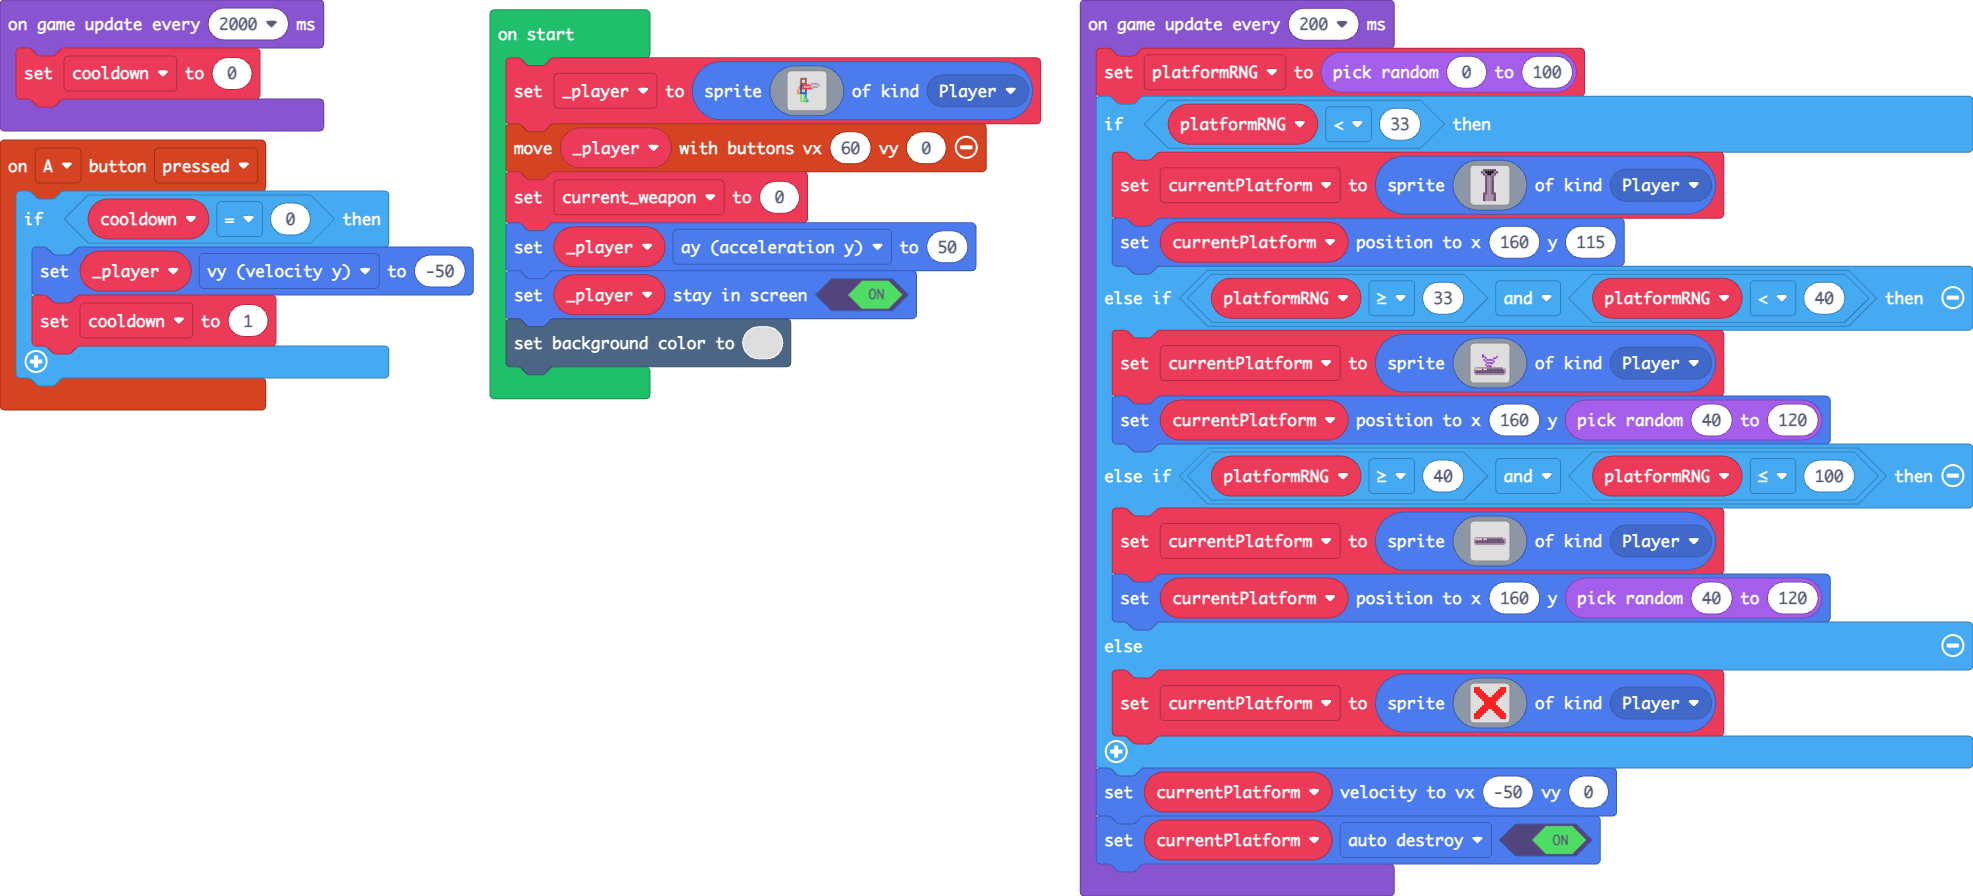
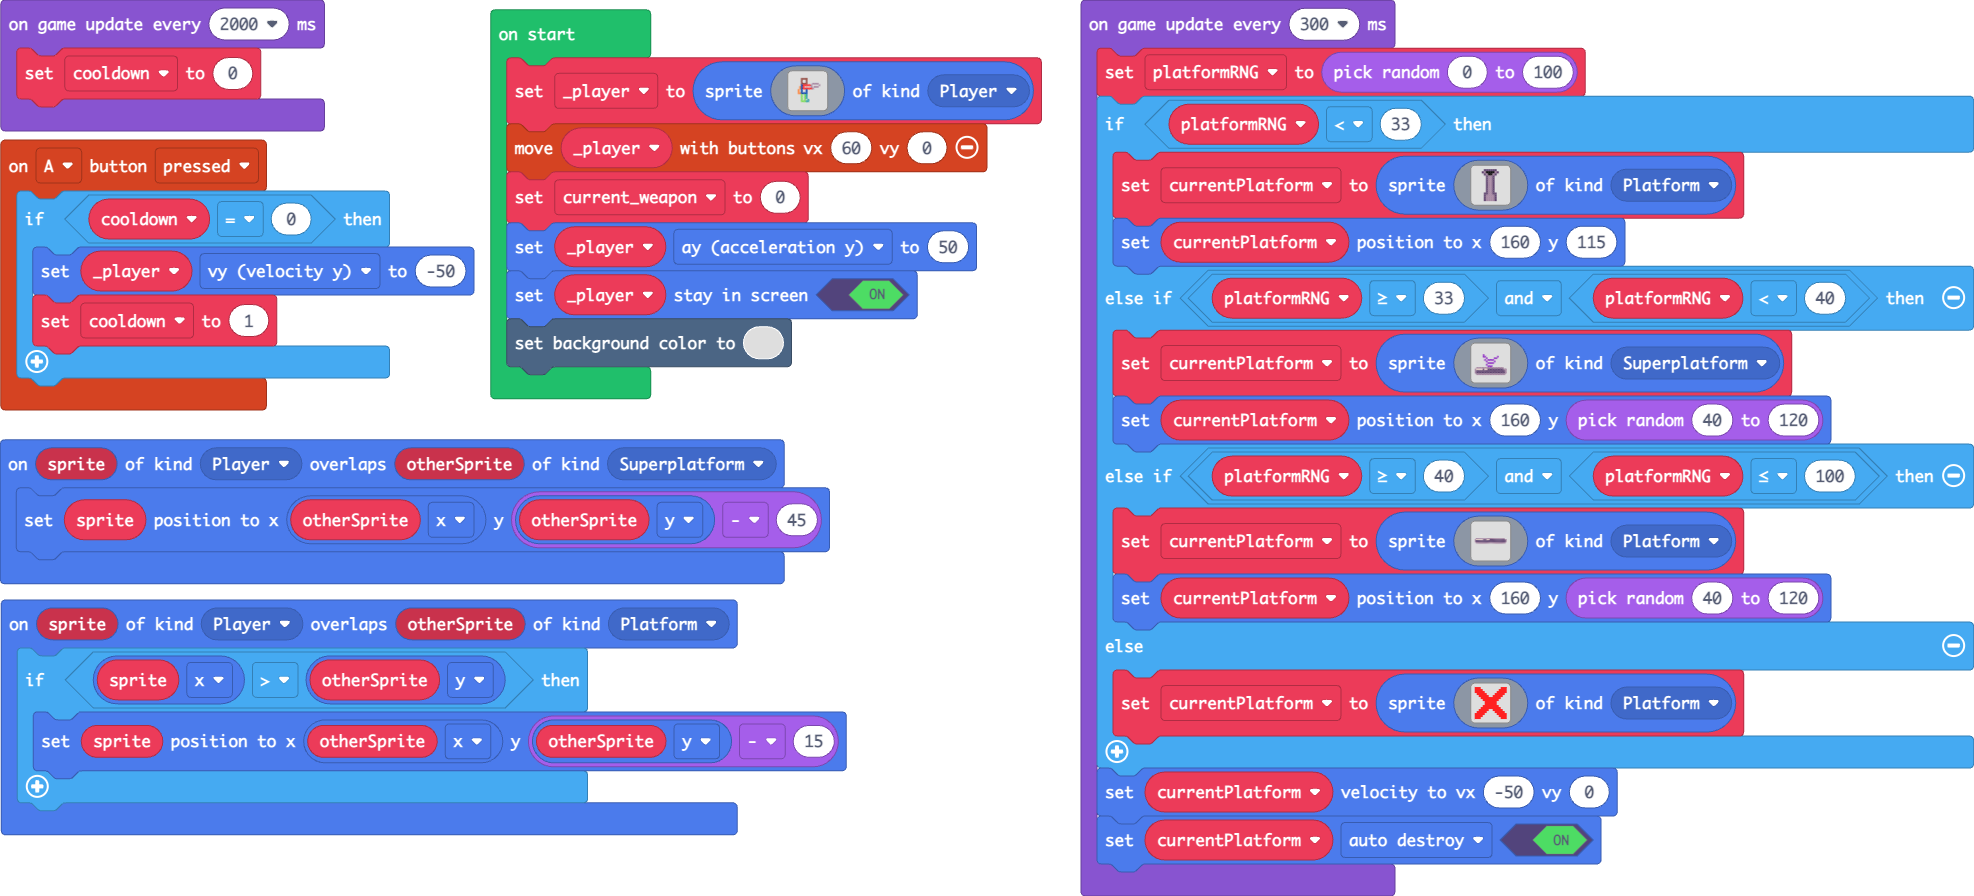
Add the RNG.

diff --git a/main.ts b/main.ts
@@ -1,8 +1,20 @@
+namespace SpriteKind {
+    export const Platform = SpriteKind.create()
+    export const Superplatform = SpriteKind.create()
+}
 controller.A.onEvent(ControllerButtonEvent.Pressed, function () {
     if (cooldown == 0) {
         _player.vy = -50
         cooldown = 1
     }
+})
+sprites.onOverlap(SpriteKind.Player, SpriteKind.Platform, function (sprite, otherSprite) {
+    if (sprite.x > otherSprite.y) {
+        sprite.setPosition(otherSprite.x, otherSprite.y - 15)
+    }
+})
+sprites.onOverlap(SpriteKind.Player, SpriteKind.Superplatform, function (sprite, otherSprite) {
+    sprite.setPosition(otherSprite.x, otherSprite.y - 45)
 })
 let currentPlatform: Sprite = null
 let platformRNG = 0
@@ -17,19 +29,19 @@ scene.setBackgroundColor(0)
 game.onUpdateInterval(2000, function () {
     cooldown = 0
 })
-game.onUpdateInterval(200, function () {
+game.onUpdateInterval(300, function () {
     platformRNG = randint(0, 100)
     if (platformRNG < 33) {
-        currentPlatform = sprites.create(assets.image`Vpipe`, SpriteKind.Player)
+        currentPlatform = sprites.create(assets.image`Vpipe`, SpriteKind.Platform)
         currentPlatform.setPosition(160, 115)
     } else if (platformRNG >= 33 && platformRNG < 40) {
-        currentPlatform = sprites.create(assets.image`Springboard`, SpriteKind.Player)
+        currentPlatform = sprites.create(assets.image`Springboard`, SpriteKind.Superplatform)
         currentPlatform.setPosition(160, randint(40, 120))
     } else if (platformRNG >= 40 && platformRNG <= 100) {
-        currentPlatform = sprites.create(assets.image`Hpipe`, SpriteKind.Player)
+        currentPlatform = sprites.create(assets.image`Hpipe`, SpriteKind.Platform)
         currentPlatform.setPosition(160, randint(40, 120))
     } else {
-        currentPlatform = sprites.create(assets.image`undefined`, SpriteKind.Player)
+        currentPlatform = sprites.create(assets.image`undefined`, SpriteKind.Platform)
     }
     currentPlatform.setVelocity(-50, 0)
     currentPlatform.setFlag(SpriteFlag.AutoDestroy, true)

diff --git a/images.g.ts b/images.g.ts
@@ -152,11 +152,11 @@ b c c c c c c c c c c c c c c c c c c b
 `;
             case "image4":
             case "Hpipe":return img`
-. b b b b b b b b b b b b b b b b b . . 
-b d d d d c d d c c c c c c c c c c b b 
-b c c c c c c c c c c c c c c c c c c b 
-b c c c c c c c c c c c c c c c c c c b 
-. b b b b b b b b b b b b b b b b b b . 
+. b b b b b b b b b b b b b b b b b b b b b b b b b b b . . 
+b d d d d d d d c c c d d d c c c c c c c c c c c c c c b b 
+b c c c c c c c c c c c c c c c c c c c c c c c c c c c c b 
+b c c c c c c c c c c c c c c c c c c c c c c c c c c c c b 
+. b b b b b b b b b b b b b b b b b b b b b b b b b b b b . 
 `;
         }
         return null;
